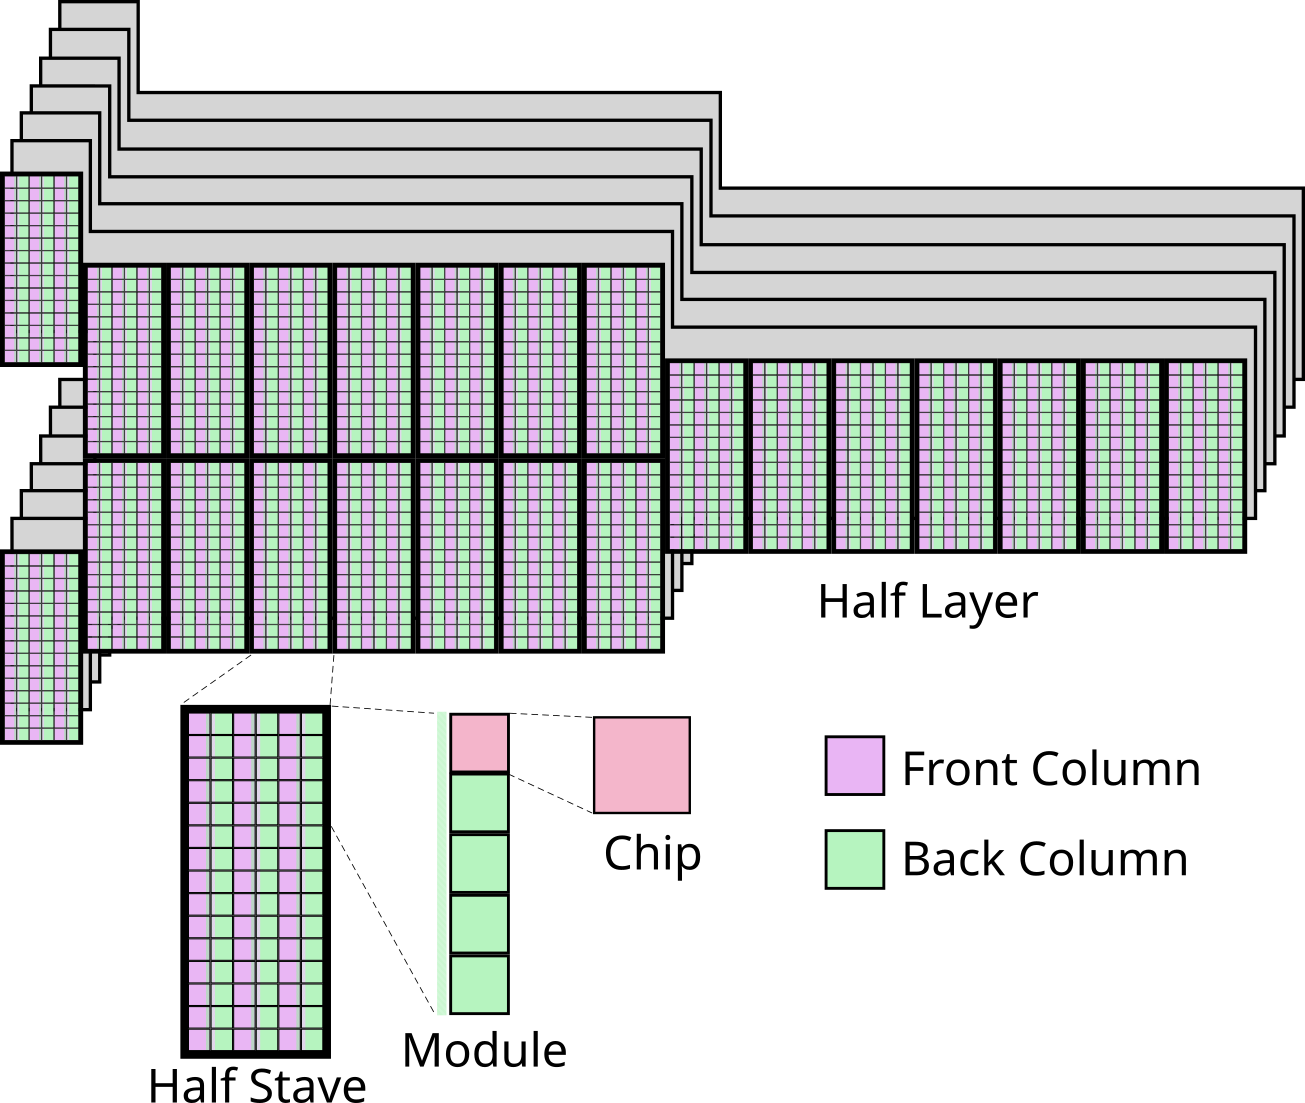
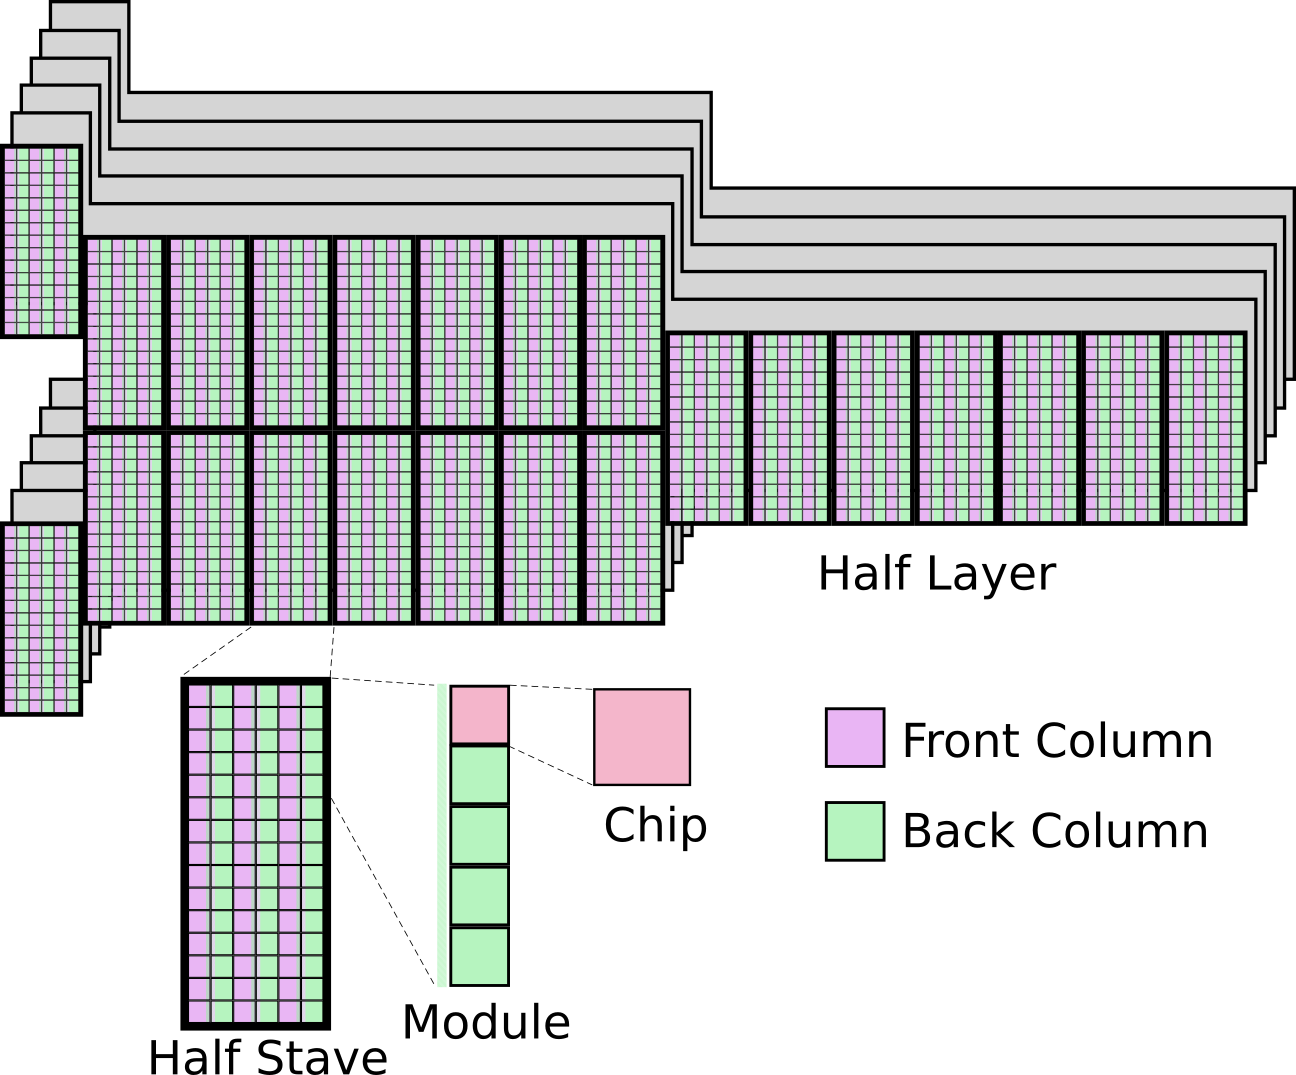
Updates from Overleaf

diff --git a/1_Motivation.tex b/1_Motivation.tex
@@ -1,17 +1,17 @@
-\chapter{HL-LHC and the LHCb experiment}
+\chapter{HiLumi-LHC and the LHCb experiment}
 The Large Hadron Collider (LHC) is a circular particle accelerator located at CERN near Geneva. It consists of a ring with a circumference of approximately $\SI{27}{\kilo\meter}$, in which proton beams are accelerated in opposite directions and brought to collision at dedicated interaction points. Around these interaction points, large detector experiments are installed to reconstruct the particles produced in the high-energy collisions. The four main experiments at the LHC are ATLAS, CMS, ALICE and LHCb. While ATLAS and CMS are general-purpose detectors and ALICE is mainly dedicated to heavy-ion physics, LHCb is optimised for precision measurements in the heavy-flavour sector~\cite{Schmitz2026-je}.\par
 A central quantity for collider experiments is the luminosity. The instantaneous luminosity $L$ describes the collision rate provided by the accelerator per unit cross-section. For a physics process with cross-section $\sigma$, the expected event rate can be written as 
 \begin{equation}
     \dot{N} = L\sigma.
 \end{equation}
-Increasing the luminosity, therefore, increases the number of recorded events for a given process. This is particularly important for rare decays and precision measurements, where the achievable statistical uncertainty is limited by the available data sample. The \textit{High-Luminosity LHC} (HL-LHC) programme is designed to increase the delivered integrated luminosity substantially, allowing LHC experiments to collect much larger data sets than in the previous running periods~\cite{Jashal:2919560}.
+Increasing the luminosity, therefore, increases the number of recorded events for a given process. This is particularly important for rare decays and precision measurements, where the achievable statistical uncertainty is limited by the available data sample. The \textit{High-Luminosity LHC} (HiLumi-LHC) programme is designed to increase the delivered integrated luminosity substantially, allowing LHC experiments to collect much larger data sets than in the previous running periods~\cite{Jashal:2919560}.
 %
 %=========================
 %
 \section{LHCb Upgrade II}
-For the LHCb experiment, the HL-LHC era is especially relevant because the physics program relies on large samples of beauty- and charm-hadron decays. LHCb studies flavour physics, rare decays, hadron spectroscopy and precision tests of the Standard Model through small deviations in precisely measured observables, for example in processes involving charge-parity violation. Such measurements benefit directly from larger data samples and improved detector performance~\cite{Schmitz2026-je}.\\
+For the LHCb experiment, the HiLumi-LHC era is especially relevant because the physics program relies on large samples of beauty- and charm-hadron decays. LHCb studies flavour physics, rare decays, hadron spectroscopy and precision tests of the Standard Model through small deviations in precisely measured observables, for example in processes involving charge-parity violation. Such measurements benefit directly from larger data samples and improved detector performance~\cite{Schmitz2026-je}.\\
 The detector is designed as a single-arm forward spectrometer and is therefore arranged mainly on one side of the proton-proton collision point, in contrast to general-purpose detectors that surround the full interaction region. This geometry is well suited for heavy-flavour physics, since beauty and charm hadrons produced at the LHC are predominantly emitted at small angles with respect to the beam axis. The detector consequently covers the forward region and reconstructs the charged and neutral particles produces within this angular acceptance~\cite{Jashal:2919560}.\par
-The LHCb Upgrade II is planned to allow operation under the much harsher conditions of the HL-LHC (see \cref{fig:luminosity}). During Run 5, the instantaneous luminosity at LHCb is expected to increase by roughly one order of magnitude from
+The LHCb Upgrade II is planned to allow operation under the much harsher conditions of the HiLumi-LHC (see \cref{fig:luminosity}). During Run 5, the instantaneous luminosity at LHCb is expected to increase by roughly one order of magnitude from
 \begin{equation*}
     \SI{10e33}{\per\square\centi\meter\per\second} \Rightarrow \SI{10e34}{\per\square\centi\meter\per\second}.
 \end{equation*}
@@ -39,7 +39,7 @@ Many heavy-flavour decay channels contain charged hadrons such as pions, kaons a
 %
 \subsubsection{RICH1 and RICH2}
 The two \textbf{R}ich \textbf{I}maging \textbf{CH}erenkov detectors, RICH1 and RICH2, are used to identify charged hadrons over a broad momentum range. Using the Cherenkov effect, if a charged particle traverses a medium faster than the speed of light in that medium, it emits photons on a cone around its trajectory. The opening angle of this cone depends on the particle velocity and the refractive index of the medium. Combining this velocity information with the momentum measured by the tracking system allows the particle mass and therefore the particle type to be derived.\par
-The LHCb detector uses two RICH detectors to cover different momentum regions: RICH1 is located upstream of the magnet and is optimized for lower to medium particle momenta, while RICH2 is located downstream of the magnet and covers higher momenta~\cite{2013}.
+The LHCb detector uses two RICH detectors to cover different momentum regions: RICH1 is located upstream of the magnet and is optimized for lower to medium particle momenta, while RICH2 is located downstream of the magnet and covers higher momenta~\cite{Adinolfi2013}.
 %
 \subsubsection{TORCH}
 TORCH, the \textbf{T}ime \textbf{O}f internally \textbf{R}eflected \textbf{CH}erenkov, is a planned time-of-flight detector for the Upgrade II detector. It is designed to improve the identification of low-momentum charged hadrons. Charged particles traversing the quartz radiator produce Cherenkov photons. These photons propagate through the quartz plate by total internal reflection and are detected at the edge of the plate by fast photon detectors. From the photon arrival time and the reconstructed track information, the particle time of flight can be determined.\par
@@ -94,60 +94,67 @@ Nevertheless, the increased radiation load, particularly affecting the readout s
 %
 \subsubsection{Mighty-Pixel}
 The Mighty-Pixel is the silicon-pixel part for the Mighty Tracker. It covers the central high-occupancy region around the beam pipe, where the hit density is too large for SciFi. The main purpose of the Mighty-Pixel is to provide high granularity tracking information with sufficient timing precision and radiation tolerance.\par
-The relevant requirements, in addition those mentioned in \Cref{sec:motivation_upgrade}, include a power consumption limited to roughly $\SI{150}{\milli\watt\per\square\centi\meter}$ and a time resolution of $\leq\SI{3}{\nano\second}$\footnote{The LHC bunch crossing frequency is $\SI{40}{\mega\hertz}$, corresponding to a time separation of $\SI{25}{\nano\second}$ between consecutive bunch crossings. A time resolution of $\sim\SI{3}{\nano\second}$ allows a $\pm 4\sigma$ timing window of about $\SI{24}{\nano\second}$, which fits within one bunch-crossing interval. For a Gaussian timing response, this corresponds to an in-time efficiency of about $\SI{99.99}{\percent}$, meaning that nearly all hits are assigned to the correct bunch crossing.}~\cite{CERN-LHCC-2021-012}.\par
+The relevant requirements, in addition those mentioned in \Cref{sec:motivation_upgrade}, include a power consumption limited to roughly $\SI{150}{\milli\watt\per\square\centi\meter}$ and a time resolution of $\leq\SI{3}{\nano\second}$~\cite{CERN-LHCC-2021-012}.\footnote{The LHC bunch crossing frequency is $\SI{40}{\mega\hertz}$, corresponding to a time separation of $\SI{25}{\nano\second}$ between consecutive bunch crossings. A time resolution of $\sim\SI{3}{\nano\second}$ allows a $\pm 4\sigma$ timing window of about $\SI{24}{\nano\second}$, which fits within one bunch-crossing interval. For a Gaussian timing response, this corresponds to an in-time efficiency of about $\SI{99.99}{\percent}$, meaning that nearly all hits are assigned to the correct bunch crossing.}\par
 These requirements motivate the use of High-Voltage Monolithic Active Pixel Sensors (HV-MAPS). They combine the sensing volume and readout electronics in one monolithic silicon chip and can provide fast charge collection by drift in a depleted region. The production sensor family developed for the Might-Pixel is called MightyPix with the current MightyPix2 as an intermediate development step toward the final production sensor.
 %
 \subsection{Mighty-Pixel Layout}
-
+The Mighty-Pixel consists of several silicon tracking layers in the central region of the downstream tracker (see \cref{fig:MP_sketch}). Current design concepts foresee six silicon layers in total, arranged as two pixel layers per tracking station with the total active silicon area covering an area of $\SIrange{8}{9}{\square\meter}$. The shape of the Mighty-Pixel region is determined by the occupancy distribution where the highest particle densities occur close to the beam pipe and are modified by the magnetic field, which spreads charged particles in the bending plane~\cite{Schmitz2026-je}. A central design goal is to minimize dead areas, since they reduce the probability of a charged particle leaving a usable hit in each tracking layer by arranging individual sensors and modules with careful overlap and minimal inactive gaps.
 \begin{figure}[ht]
     \centering
-    \includegraphics[width=0.7\linewidth]{figs/MP_sketch2.png}
-    \caption{Caption}
-    \label{fig:placeholder}
+    \includegraphics[width=.8\linewidth]{figs/MP_sketch2.png}
+    \caption[Schematic layout of the Mighty-Pixel]{Schematic layout of the Mighty-Pixel detector region, illustrating the nomenclature used for its hierarchical structure. A half layer is composed of several half staves, each half stave contains multiple modules and each module consists of a column of pixel chips. The stepped geometry follows the forward-detector acceptance and leaves space for the beam pip in the central region close to the pp interaction point.}
+    \label{fig:MP_sketch}
 \end{figure}
-\begin{figure}[ht]
-    \centering
-    \includegraphics[width=0.1\linewidth]{figs/half_stave.png}
-    \caption{Caption}
-    \label{fig:placeholder}
-\end{figure}
+% \begin{figure}[ht]
+%     \centering
+%     \includegraphics[width=0.1\linewidth]{figs/half_stave.png}
+%     \caption{Caption}
+%     \label{fig:half_stave}
+% \end{figure}
 %
+\newpage
 \subsection{Module and Stave Architecture}
+The Mighty-Pixel cannot be built from individual sensors placed independently in the detector. Instead, sensors are integrated into modules and modules are mounted on larger mechanical thermal support structures called staves (\cref{fig:stave}). This architecture is required for mechanical stability, cooling, electrical connection and reproducible large-scale production. A module groups several pixel sensors into one functional mechanical-electronic unit. In the current concepts, a module contains five sensors that are connected to a flexible printed circuit (Flex), which provides electrical routing for power, bias voltages, configuration and data readout~\cite{Schmitz2026-je}.\par
 \begin{figure}[ht]
     \centering
     \includegraphics[width=0.7\linewidth]{figs/Stave.png}
-    \caption{Caption}
-    \label{fig:placeholder}
+    \caption[Rendering of the Mighty-Pixel stave concept]{Rendering of the Mighty-Pixel stave illustrating the main components of its sandwich structure. The hybrid flex carries the pixel chips and provides the local electrical interconnection, while the read-out flex routes the detector signals towards the high-density interconnects (HDIs) and power boards at the end of the stave. Mechanical support and thermal management are provided by the carbon-foam core and carbon-fibre sheet, which form a lightweight support structure, together with the titanium cooling pipe used to remove the heat generated by the detector electronics.}
+    \label{fig:stave}
 \end{figure}
-\begin{figure}[ht]
-    \centering
-    \includegraphics[width=0.7\linewidth]{figs/StaveBuildOverview.png}
-    \caption{Caption}
-    \label{fig:placeholder}
-\end{figure}
+The stave is the larger support structure carrying many modules. It provides mechanical support, cooling and routing services. A typical stave stack contains pixel sensors, hybrid flexes, readout flexes and carbon-based support structures on each side with cooling pipes in the middle forming a sandwich structure. Carbon fibre or carbon foam materials are attractive because of their mechanical stiffness and low mass. Cooling is necessary because the sensors and readout electronics dissipate power, while the detector must operate stably in a radiation environment~\cite{Schmitz2026-je}.\par
+% \begin{figure}[ht]
+%     \centering
+%     \includegraphics[width=0.7\linewidth]{figs/StaveBuildOverview.png}
+%     \caption{Caption}
+%     \label{fig:stave_build_overview}
+% \end{figure}
+For this thesis, the most relevant aspect of the module and stave architecture is the close mechanical integration of high-voltage sensors with neighbouring sensors and conductive support materials. The sensor placement must be dense enough to minimize tracking inefficiencies, while still maintaining electrical safety. (A more in depth explanation in \cref{sec:pos_prob}.)
 %
 \subsection{MightyPix2 and HV-MAPS}
-
+MightyPix2 is a prototype sensor in the development chain towards the final MightyPix production sensor for the Mighty-Pixel based on High Voltage Monolithic Active Pixel Sensors (HV-MAPS). The term monolithic means that the sensitive detector volume and the readout electronics are integrated on the same silicon chip. This differs from hybrid pixel detectors, where sensor and readout chip are separate components connected by bump bonds~\cite{Schmitz2026-je}.\par
+The monolithic approach reduces material and can lower production costs for large-area detectors. This is important for the Mighty-Pixel, where several square metres of silicon detector area are required while at the same time meeting strict requirements on timing, rate capability, radiation tolerance and power consumption~\cite{CERN-LHCC-2021-012}.
 %
 \subsubsection{High-Voltage CMOS Principle}
+In the HV-CMOS concept used for these sensors, a high reverse-bias voltage is applied between the charge-collection electrode and the p-type substrate. This creates a depleted region in the sensor volume, in which free charge carriers are removed and an electric field is established. When a charged particle traverses the sensor, it creates electron-hole pairs in the silicon. Inside the depleted region, these charge carriers are separated by the electric field and transported mainly by drift towards the collection electrode, as illustrated in~\cref{fig:HVCMOS}.\par
+Drift-based charge collection is significantly faster than diffusion-based collection and is therefore essential for achieving nanosecond-scale timing.
+% In an HV-MAPS device, a high voltage is applied to the silicon substrate creating a depleted region in which mobile charge carriers are removed and an electric field is established. When a charged particle traverses the sensor, it creates electron-hole pairs in the silicon. In the depleted region, these charge carriers are separated and transported by drift in the electric field (\cref{fig:HVCMOS}).\par
+% This drift-based charge collection is much faster than diffusion-based collection, which is essential for achieving nanosecond-scale timing and for reducing charge loss after irradiation. Radiation damage can introduce defects that trap charge carriers. If the collection time is short, fewer charge carriers are trapped before reaching the collection electrode. Therefore, the high-voltage operation contributes both to timing performance and radiation tolerance~\cite{Schmitz2026-je}\cite{FouldsHolt_MT_char}.\par
 \begin{figure}[ht]
     \centering
-    \includegraphics[width=0.7\linewidth]{figs/HVCMOS.png}
-    \caption{Caption}
-    \label{fig:placeholder}
+    \subcaptionbox{Cross section of a HV-MAPS with four pixels}{\includegraphics[width=0.48\linewidth]{figs/HVMAPS.png}}
+    \hspace{.02\linewidth}
+    \subcaptionbox{Cross section of one pixel cell of a monolithic pixel sensor}{\includegraphics[width=0.48\linewidth]{figs/HVCMOS.png}}
+    \caption[Schematic comparison of an HV-MAPS structure and an HV-CMOS pixel cell]{Schematic comparison of an HV-MAPS structure (a) and an HV-CMOS pixel cell (b). \textbf{(a)}: schematic cross-section of HV-MAPS device with four pixels. The light-blue n-well regions act as charge-collection electrodes, the orange region represents the p-type substrate and the integrated readout electronics are indicated inside the pixel cells~\cite{PERIC2007876}. \textbf{(b)}: cross-section of one pixel cell of a monolithic pixel sensor implemented in HV-CMOS technology. The highly doped p-type substrate is shown in grey, while the large deep n-well charge-collection electrode is shown in blue. The readout electronics are integrated inside the deep n-well using additional CMOS wells. High-voltage biasing is provided through p-type implants, leading to the formation of a depleted region in the substrate. Charge carriers generated by an ionizing particle in the depleted volume are collected mainly by drift in the electric field~\cite{Schmitz2026-je}.}
+    \label{fig:HVCMOS}
 \end{figure}
-\begin{figure}[ht]
-    \centering
-    \includegraphics[width=0.7\linewidth]{figs/HVMAPS.png}
-    \caption{Caption}
-    \label{fig:placeholder}
-\end{figure}
+% In the HV-CMOS concept used for HV-MAPS, the readout electronics are placed inside a deep n-well that also acts as a charge collection electrode. CMOS electronics such as amplifiers, comparators, threshold tuning elements and local memory can be integrated inside the pixel. A particle-induced signal is collected by the electrode, amplified and discriminated in the pixel electronics~\cite{Schmitz2026-je}.
 %
 \subsubsection{Charge Collection and Timing}
+The timing performance of the Mighty-Pixel is connected directly to the charge collection process. The LHC bunch crossing
 %
 \subsubsection{MightyPix2 Design}
 %
-\subsection{Positioning Problems}
+\subsection{Positioning Problems}\label{sec:pos_prob}
 %
 \subsubsection{Sensor-to-Sensor Spacing}
 %

diff --git a/Test.tex b/Test.tex
@@ -30,7 +30,7 @@ The uncertainties of the slope and intercept were obtained from the covariance m
     9 & -116.47 & -555.66 & -190.03 & -536.07 \\
     \bottomrule
   \end{tabular}
-  \caption{Fit parameters for the baseline of Passivation Tests \#5 Heater 1 and 5. The slope values are scaled by a factor of $10^{6}$.}
+  \caption[Fit parameters for the baseline of Passivation Tests \#5]{Fit parameters for the baseline of Passivation Tests \#5 Heater 1 and 5. The slope values are scaled by a factor of $10^{6}$.}
   \label{tab:fitparams_no5}
 \end{table}
 
@@ -66,7 +66,7 @@ The uncertainties of the slope and intercept were obtained from the covariance m
     9 & -274.65 & -538.39 & 146.95 & -536.01 \\
     \bottomrule
   \end{tabular}
-  \caption{Fit parameters for the baseline of Passivation Tests \#6 Heater 2 and 3. The slope values are scaled by a factor of $10^{6}$.}
+  \caption[Fit parameters for the baseline of Passivation Tests \#6]{Fit parameters for the baseline of Passivation Tests \#6 Heater 2 and 3. The slope values are scaled by a factor of $10^{6}$.}
   \label{tab:fitparams_no6}
 \end{table}
 
@@ -102,7 +102,7 @@ The uncertainties of the slope and intercept were obtained from the covariance m
     9 & -546.87 & -533.60  & -293.91 & -538.98 \\
     \bottomrule
   \end{tabular}
-  \caption{Fit parameters for the baseline of Passivation Tests \#7 Heater 3 and 4. The slope values are scaled by a factor of $10^{6}$.}
+  \caption[Fit parameters for the baseline of Passivation Tests \#7]{Fit parameters for the baseline of Passivation Tests \#7 Heater 3 and 4. The slope values are scaled by a factor of $10^{6}$.}
   \label{tab:fitparams_no7}
 \end{table}
 
@@ -142,7 +142,7 @@ The uncertainties of the slope and intercept were obtained from the covariance m
     9 & -497.23 & -555.45 & \multicolumn{1}{c}{-} & \multicolumn{1}{c}{-}\\
     \bottomrule
   \end{tabular}
-  \caption{Fit parameters for the baseline of Passivation Tests \#9 Heater 5 and Passivation Test \#12 Heater 1. The slope values are scaled by a factor of $10^{6}$.}
+  \caption[Fit parameters for the baseline of Passivation Tests \#9/12]{Fit parameters for the baseline of Passivation Tests \#9 Heater 5 and Passivation Test \#12 Heater 1. The slope values are scaled by a factor of $10^{6}$.}
   \label{tab:fitparams_no9_12}
 \end{table}
 
@@ -151,10 +151,10 @@ The uncertainties of the slope and intercept were obtained from the covariance m
   \centering
   \begin{tabular}{
       c|
+      S[table-format=3.1(2)]
+      S[table-format=3.3(2)]||
       S[table-format=3.2(2)]
-      S[table-format=3.2(2)]||
-      S[table-format=3.2(2)]
-      S[table-format=3.2(2)]
+      S[table-format=3.3(2)]
     }
     \toprule
     &
@@ -167,14 +167,13 @@ The uncertainties of the slope and intercept were obtained from the covariance m
     \multicolumn{1}{c}{$10^{-6} m / \si{\micro\meter\per\micro\meter}$} &
     \multicolumn{1}{c}{$b / \si{\micro\meter}$}\\
     \midrule
-    1 & -556.775 \pm 1.949 & -528.975 \pm 0.011 &   13.2 \pm 2.2 & -530.336 \pm 0.012 \\
-    2 & -517.859 \pm 1.828 & -530.364 \pm 0.010 &   -0.1 \pm 1.5 & -530.446 \pm 0.008 \\
-    3 & -407.986 \pm 3.647 & -528.764 \pm 0.020 &    6.3 \pm 1.1 & -527.271 \pm 0.006 \\
-    4 & -483.067 \pm 2.884 & -529.353 \pm 0.016 & -197.8 \pm 1.0 & -527.391 \pm 0.005 \\
-    5 & -346.825 \pm 2.496 & -530.432 \pm 0.014 & -220.4 \pm 1.0 & -528.546 \pm 0.005 \\
+    1 & -556.8 \pm 2.0 & -528.975 \pm 0.011 &   13.2 \pm 2.2 & -530.336 \pm 0.012 \\
+    2 & -517.9 \pm 1.8 & -530.364 \pm 0.010 &   -0.1 \pm 1.5 & -530.446 \pm 0.008 \\
+    3 & -408.0 \pm 3.6 & -528.764 \pm 0.020 &    6.3 \pm 1.1 & -527.271 \pm 0.006 \\
+    4 & -483.1 \pm 2.9 & -529.353 \pm 0.016 & -197.8 \pm 1.0 & -527.391 \pm 0.005 \\
+    5 & -346.9 \pm 2.5 & -530.432 \pm 0.014 & -220.4 \pm 1.0 & -528.546 \pm 0.005 \\
     \bottomrule
   \end{tabular}
-  \caption{Fit parameters for the baseline of the reference Heater 1 and 2. The slope values are scaled by a factor of $10^{6}$.}
+  \caption[Fit parameters for the baseline of the reference Heater 1/2]{Fit parameters for the baseline of the reference Heater 1 and 2. The slope values are scaled by a factor of $10^{6}$.}
   \label{tab:fitparams_no9_12}
 \end{table}
-The uncertainties of the slope and intercept were obtained from the covariance matrix of the linear least-squares fit. They therefore quantify the statistical uncertainty of the fitted baseline parameters for the selected baseline regions. These uncertainties do not include all systematic contributions of the profilometer measurement, such as stylus effects, sample positioning, environmental vibrations, or the choice of baseline regions.

diff --git a/config.tex b/config.tex
@@ -205,7 +205,7 @@ backref=false]{hyperref}
 %\captionsetup[figure]{skip=4pt}
 %\captionsetup[table]{skip=75pt}
 
-\newcommand{\thesistitle}{Evaluation of Insulation Coatings for High Voltage Mighty Active Pixel Sensors (HV-MAPS)}
+\newcommand{\thesistitle}{Evaluation of Insulation Coatings for High Voltage Monolithic Active Pixel Sensors (HV-MAPS)}
 \newcommand{\thesisauthor}{Jaffar Al Naggar}
 \newcommand{\thesismonth}{Juni}
 \newcommand{\thesisyear}{2026}

diff --git a/main.tex b/main.tex
@@ -106,7 +106,7 @@ Bonn, \dotfill \hspace{4cm} \dotfill\\
 \pagenumbering{arabic}
 \setcounter{page}{1}
 \include{1_Motivation}
-\include{2_Prototyping}
+% \include{2_Prototyping}
 % \include{3_Photolithograph}
 % \include{4_Machines}
 % \include{5_Resists}